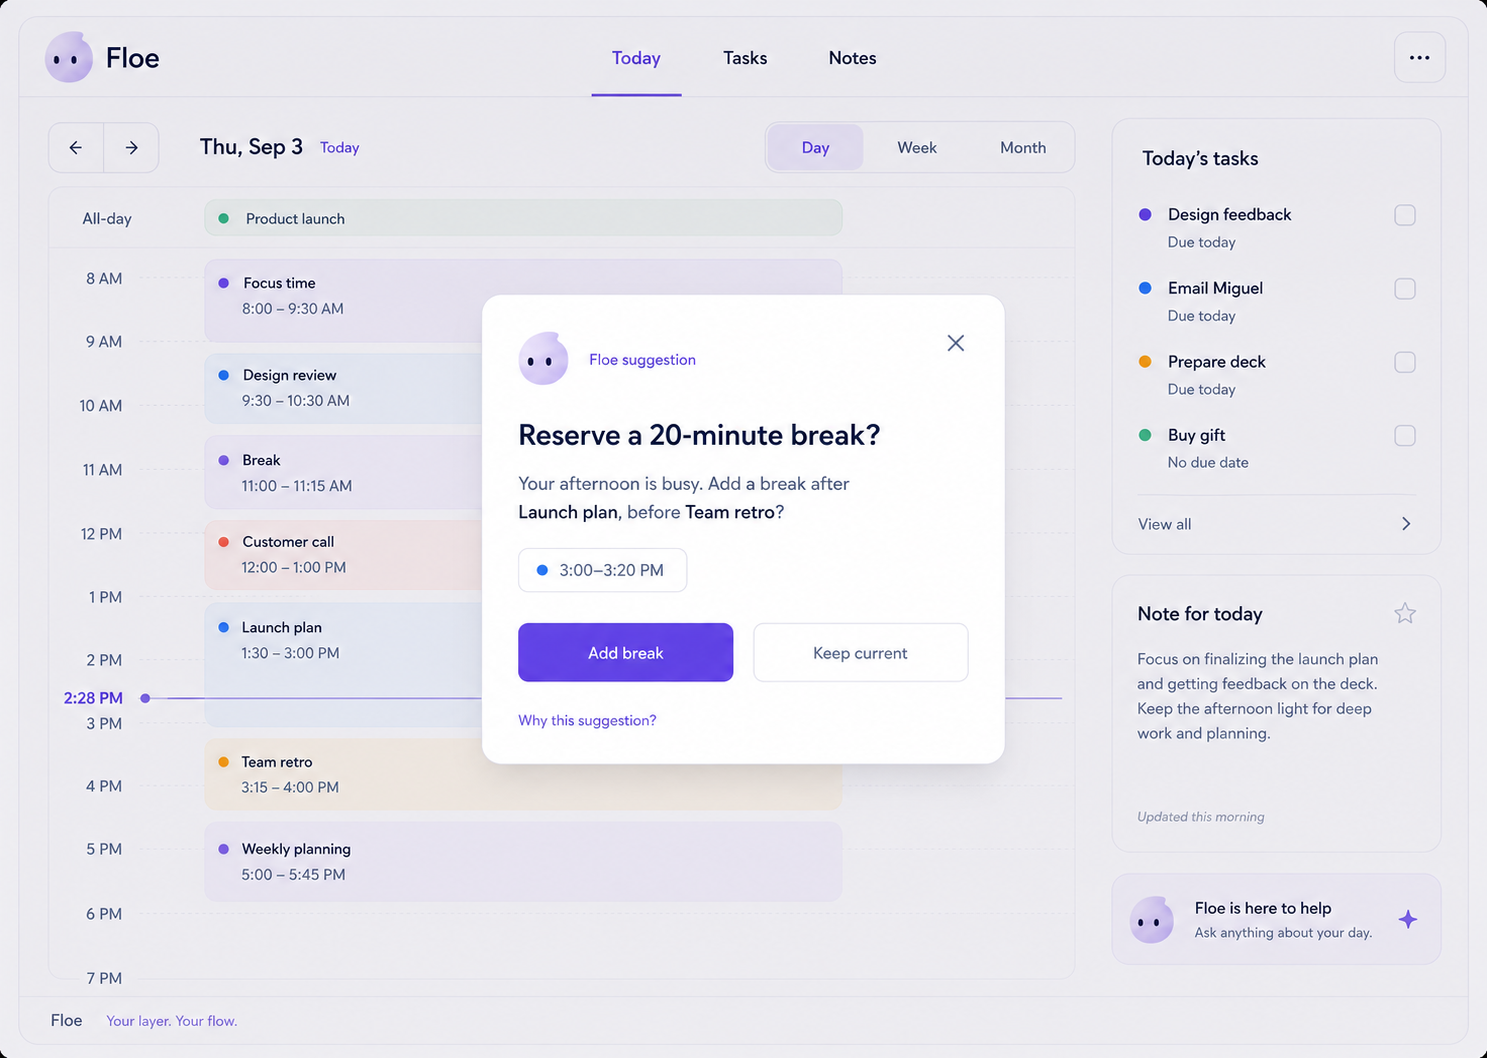
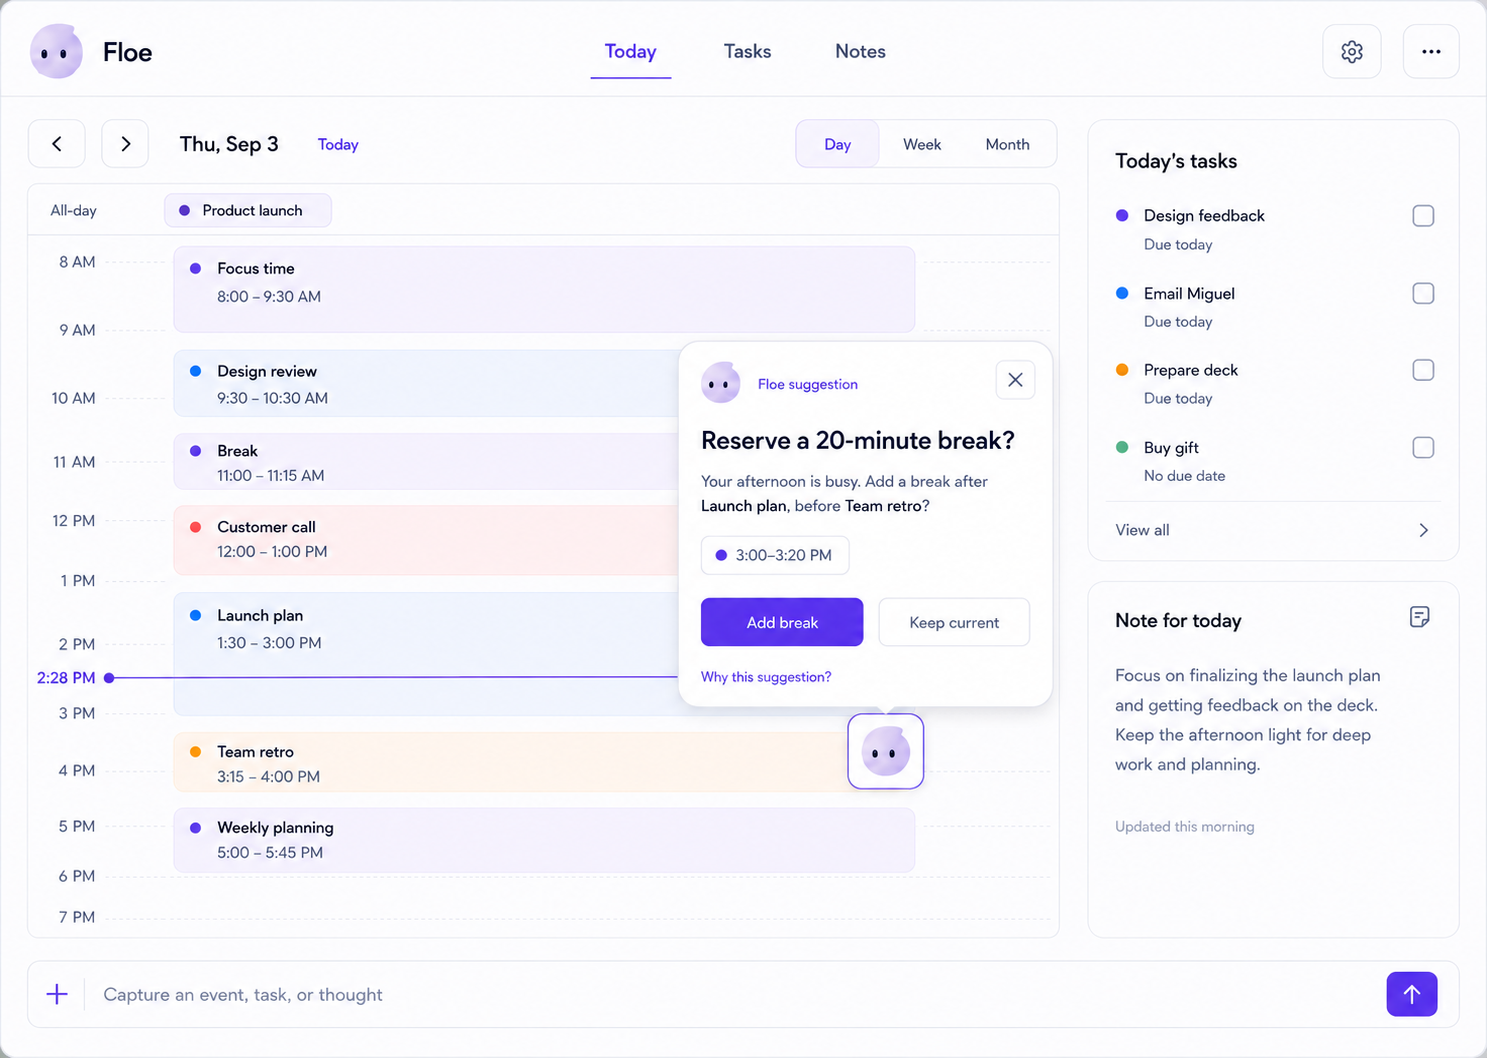
design: unify product UI reference screens

diff --git a/docs/design/screens/day-canvas.md b/docs/design/screens/day-canvas.md
@@ -12,8 +12,8 @@ Help the user orient to Now and Next, act on today's tasks, recover relevant not
 Local toolbar: date · Today · Day/Week/Month
 ┌ Timeline / Now and Next ─────────┬ Today's tasks ┐
 │ Event, task, note projections    │ Related note  │
-│ Current-time marker              │ Floe entry or │
-│                                  │ suggestion    │
+│ Current-time marker              │ Related note  │
+│ Optional anchored Floe button    │               │
 └──────────────────────────────────┴───────────────┘
 Universal Capture
 ```
@@ -31,7 +31,11 @@ The timeline is primary. The rail order is tasks, related note/context, then Flo
 
 ## Contextual rail
 
-Today's tasks support quick completion and `View all`. A related note is shown only when it has current value; the sparkle appears only if its content or action is Floe-generated. The final region is either passive Floe presence or one suggestion, never both.
+Today's tasks support quick completion and `View all`. A related note is shown only when it has current value; the sparkle appears only if its content or action is Floe-generated. The rail may end with passive Floe presence only when no timeline Floe button or suggestion is visible.
+
+## Timeline suggestion
+
+A time-specific suggestion appears first as one 52×52 white `sq-md` button with a 30px Floe mascot. It sits on the right edge of the relevant time block and overlaps it slightly without hiding title or time. It contains no text or notification badge. Activation opens a non-modal `sq-xl` popover anchored above or beside the button; the underlying timeline remains readable and undimmed.
 
 ## Narrow composition
 
@@ -43,7 +47,7 @@ Order content as toolbar, Now/Next, timeline, high-priority tasks, optional sugg
 - Selecting an item opens semantic detail without losing timeline position.
 - Completing a task updates locally and offers undo.
 - Capture preserves original input and uses the classification flow.
-- Accepting a suggestion opens a proposal or confirmation; it does not silently edit the calendar.
+- Activating the Floe button opens its anchored proposal; accepting the proposal performs only the explicitly named, policy-approved action.
 
 ## Empty and exceptional states
 
@@ -55,4 +59,4 @@ Order content as toolbar, Now/Next, timeline, high-priority tasks, optional sugg
 
 ## Prohibited
 
-No speech bubbles or mascot heads over the timeline. No automatic assistant modal. No productivity score, streak, celebratory completion, or full-card categorical gradient.
+No speech bubbles or free-floating mascot heads over the timeline; the single standardized Floe squircle button is the only exception. No automatic assistant modal. No productivity score, streak, celebratory completion, or full-card categorical gradient.

diff --git a/docs/design/assistant-and-interventions.md b/docs/design/assistant-and-interventions.md
@@ -16,7 +16,7 @@ Passive presence never overlays content and does not animate to solicit attentio
 
 ### Suggestion
 
-Show one structured `Floe suggests` card when an intervention passes policy. Required anatomy:
+Show one structured `Floe suggests` card when an intervention passes policy. A suggestion tied to a precise timeline block starts as one icon-only Floe squircle button anchored to that block and reveals the same structured content in an anchored popover after activation. Required anatomy:
 
 1. 32px mascot or Floe attribution;
 2. concise proposition with relevant evidence or time context;
@@ -36,7 +36,8 @@ Before an external or consequential mutation, state the proposed action, target,
 
 ## Placement
 
-- Wide Day Canvas: bottom region of the contextual rail, after tasks and notes.
+- Wide Day Canvas, general suggestion: bottom region of the contextual rail, after tasks and notes.
+- Wide Day Canvas, time-specific suggestion: one 52×52 Floe-icon squircle button slightly overlapping the relevant time block; activation opens a non-modal anchored popover.
 - Wide Task Detail: first or second rail card when directly relevant to the task.
 - Notes collection: no suggestion inside individual cards; invoke Floe after selection or in detail.
 - Narrow layout: a reserved inline suggestion after Now/Next or object summary, never between title and required controls.
@@ -44,7 +45,7 @@ Before an external or consequential mutation, state the proposed action, target,
 ## Attention rules
 
 - At most one proactive suggestion is expanded in a viewport.
-- Passive entry and suggestion collapse into one component; do not show both.
+- Passive entry, timeline Floe button, and expanded suggestion are mutually exclusive entry states; do not duplicate them.
 - Do not use speech bubbles, bouncing mascots, unread badges, or pulsing sparkle.
 - Do not open a modal merely because a suggestion exists.
 - Dismissal removes the suggestion without leaving an empty card shell.

diff --git a/docs/design/renders/README.md b/docs/design/renders/README.md
@@ -1,13 +1,16 @@
 # Production UI Renders
 
-**Created:** 2026-09-04  
+**Created:** 2026-09-04
+**Revised:** 2026-09-04
 **Status:** implementation reference
 
 These renders use the four September 2026 shared mockups as visual input and apply Floe's current design specifications. They show intended product UI rather than reproducing the source mockups.
 
+All four screens share one canonical application shell, navigation geometry, content inset, typography, and continuous-corner squircle hierarchy. Detail and timeline views also share the same 70/30 grid. Timeline suggestions use one anchored Floe button and a non-modal popover rather than a detached modal or speech bubble.
+
 - `day-canvas.png` — default Today state with timeline, contextual rail, and universal capture.
 - `task-detail.png` — task content, subtasks, related note, and integrated suggestion.
 - `notes.png` — supporting Notes collection with restrained categorical tint.
-- `assistant-confirmation.png` — explicit confirmation after the user accepts a suggestion.
+- `assistant-confirmation.png` — non-modal anchored proposal opened from the timeline Floe button.
 
 The images communicate composition, hierarchy, density, and tone. They do not override tokens, copy rules, accessibility, localization, responsive behavior, or platform conventions in [`DESIGN.md`](../../../DESIGN.md) and [`docs/design/`](../README.md).

diff --git a/DESIGN.md b/DESIGN.md
@@ -254,10 +254,10 @@ Desktop uses a stable application shell: brand and global destinations in the he
 Floe has three presentation levels:
 
 1. **Passive:** one persistent assistant entry in the contextual rail or platform-appropriate command surface.
-2. **Suggestion:** one structured `Floe suggests` card in the contextual rail or a reserved inline slot on narrow screens.
+2. **Suggestion:** one structured `Floe suggests` card in the contextual rail, or one Floe-icon squircle button anchored to a relevant time block. Activating a timeline button opens one anchored suggestion popover.
 3. **Active:** a panel, sheet, or confirmation dialog opened by the user or by accepting a suggestion.
 
-Do not place conversational bubbles over calendar events or note cards. Do not automatically cover primary content with a modal. A suggestion can lead to an action confirmation, but intelligence only proposes and the user remains in control.
+Do not place conversational bubbles over calendar events or note cards. A timeline may use exactly one icon-only Floe squircle button, slightly overlapping the relevant time block; it replaces the passive rail entry while visible. Do not automatically cover primary content with a modal. A suggestion can lead to an action confirmation, but intelligence only proposes and the user remains in control.
 
 ## Surface and depth
 

diff --git a/docs/design/components.md b/docs/design/components.md
@@ -50,7 +50,9 @@ Cards use `sq-lg`, 20–24px padding, and flat white or a step-50 tint. A card e
 
 Calendar blocks use `sq-sm` or `sq-md` depending on height. Each block exposes title and time; color is supplemental. Current time uses a labeled line with sufficient contrast and an accessible current-time description.
 
-Floe content never floats over an event block. Suggestions appear in the contextual rail or a reserved inline slot on a narrow layout.
+Floe text content never floats over an event block. A timeline may show exactly one 52×52 `sq-md` Floe-icon button, vertically centered and slightly overlapping the right edge of the relevant time block. The button uses a white surface, primary-200 border, restrained popover shadow, and a 30px mascot. It contains no text, badge, sparkle, or speech bubble.
+
+Activating the button keeps it visible with an active focus border and opens a single `sq-xl` popover anchored above or beside it. The popover must avoid obscuring the event that supplied the context. When this button is present, omit the passive Floe entry from the rail.
 
 ## Task rows and checkboxes
 

diff --git a/docs/planning/01-experience/day-canvas.md b/docs/planning/01-experience/day-canvas.md
@@ -34,7 +34,7 @@ Wednesday, Sep 2
 - Now / Next가 가장 강하다.
 - 먼 미래는 시각적으로 약하게 한다.
 - Event / Task / Note는 의미가 구분되지만 서로 경쟁하지 않는다.
-- Floe Intervention은 별도 dashboard가 아니다. 데스크톱에서는 contextual rail, 좁은 화면에서는 예약된 inline slot을 사용하며 timeline 위에 떠 있는 말풍선으로 표현하지 않는다.
+- Floe Intervention은 별도 dashboard가 아니다. 일반 제안은 contextual rail, 좁은 화면에서는 예약된 inline slot을 사용한다. 특정 time block과 직접 관련된 제안은 해당 block 가장자리에 표준 Floe squircle button 하나를 둘 수 있지만 timeline 위의 말풍선으로 표현하지 않는다.
 - 데이터 원본의 모든 metadata를 기본 화면에서 보여주지 않는다.
 - 검색/입력은 최대한 하나로 유지한다.
 

diff --git a/docs/design/reference-analysis.md b/docs/design/reference-analysis.md
@@ -21,7 +21,7 @@ Four shared mockups depicted a calendar overview, task detail, notes collection,
 - Strong card gradients become flat white or step-50/100 tints.
 - The desktop content/rail split becomes responsive stacking on narrow screens.
 - `Calendar / Tasks / Notes` becomes `Today / Tasks / Notes` to preserve Day Canvas as the product center.
-- Assistant suggestion visuals become one shared rail component rather than a floating special case.
+- Assistant suggestion content uses one shared component. Time-specific suggestions begin as a standardized Floe squircle button anchored to the relevant block; general suggestions use the rail.
 
 ## Rejected
 
